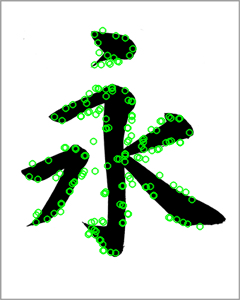
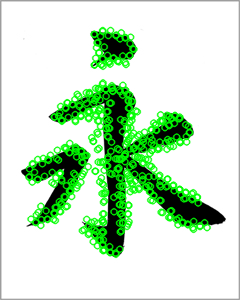
impl sample&master all pattern worked (but Feature matching not good..)

Changed region(s): [[0.0875, 0.09, 0.875, 0.87]]

diff --git a/src/shape_detection/char_detect.py b/src/shape_detection/char_detect.py
@@ -14,21 +14,28 @@ import numpy as np
 def main():
 
     # マスター：「永」のゴシック体と明朝体
-    ei_gothic = cv2.imread("./../../image/ei_gothic.png")
-    ei_mincho = cv2.imread("./../../image/ei_mincho.png")
+    ei_gothic = "gothic", cv2.imread("./../../image/ei_gothic.png")
+    ei_mincho = "mincho", cv2.imread("./../../image/ei_mincho.png")
+    ei_master = [ei_gothic, ei_mincho]
 
     # サンプル：習字で書かれた文字
-    ei001 = cv2.imread("./../../image/ei001.png")
-    ei002 = cv2.imread("./../../image/ei002.png")
+    ei001 = "ei001", cv2.imread("./../../image/ei001.png")
+    ei002 = "ei002", cv2.imread("./../../image/ei002.png")
+    ei_sample = [ei001, ei002]
 
-    # 特徴量抽出
-    kp_m, des_m = detect_AKAZE(ei_gothic, "ei_gothic.png")
-    kp_s, des_s = detect_AKAZE(ei001, "ei001.png")
 
-    # マッチング
-    master = "ei_gothic", ei_gothic, kp_m, des_m
-    sample = "ei001", ei001, kp_s, des_s
-    match_BF(master, sample)
+    for master_name, master_img in ei_master:
+        for sample_name, sample_img in ei_sample:
+
+            # 特徴量抽出
+            kp_m, des_m = detect_AKAZE(master_img, master_name)
+            kp_s, des_s = detect_AKAZE(sample_img, sample_name)
+
+            # マッチング
+            master = master_name, master_img, kp_m, des_m
+            sample = sample_name, sample_img, kp_s, des_s
+            match_BF(master, sample)
+
 
 
 # AKAZEで特徴量(KeyPoint, Descriptor)抽出
@@ -39,7 +46,7 @@ def detect_AKAZE(img, name):
     print("{}: keypoints: {}, descriptors: {}".format(name, len(kp), des.shape))
 
     cv2.drawKeypoints(img, kp, img, (0, 255, 0))
-    cv2.imwrite("./../../image/AKAZE_" + name, img)
+    cv2.imwrite("./../../image/AKAZE_{}.png".format(name), img)
 
     return kp, des
 
